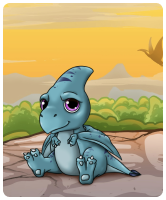
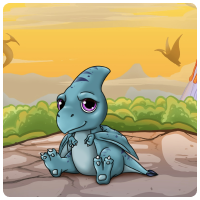
new baby dinos and fixes

diff --git a/src/components/GetToKnow/BabyDinos.js b/src/components/GetToKnow/BabyDinos.js
@@ -1,7 +1,16 @@
-import React from "react";
+import React, { useState, useRef } from "react";
 import { LazyLoadImage } from "react-lazy-load-image-component";
 import "react-lazy-load-image-component/src/effects/blur.css";
 export default function BabyDinos() {
+  const [setActive, setActiveState] = useState("");
+  const [setHeight, setHeightState] = useState("0px");
+
+  const content = useRef(null);
+
+  function toggleAccordion() {
+    setActiveState(setActive === "" ? "active" : "");
+    setHeightState(setActive === "active" ? "0px" : `${content.current.scrollHeight}px`);
+  }
   const dinos = [
     { src: "/imgs/nfts/baby/ankylosaurus.png", name: "ankylosaurus" },
     { src: "/imgs/nfts/baby/baryonyx.png", name: "baryonyx" },
@@ -15,25 +24,76 @@ export default function BabyDinos() {
     { src: "/imgs/nfts/baby/triceratops.png", name: "triceratops" },
     { src: "/imgs/nfts/baby/tyrannosaurus.png", name: "tyrannosaurus" },
     { src: "/imgs/nfts/baby/velociraptor.png", name: "velociraptor" },
+    { src: "/imgs/nfts/baby/achelosaurus.png", name: "achelosaurus" },
+    { src: "/imgs/nfts/baby/allosaurus.png", name: "allosaurus" },
+    { src: "/imgs/nfts/baby/dilophosaurus.png", name: "dilophosaurus" },
+    { src: "/imgs/nfts/baby/tsintaosaurus.png", name: "tsintaosaurus" },
+    { src: "/imgs/nfts/baby/iguanodon.png", name: "iguanodon" },
+    { src: "/imgs/nfts/baby/isanosaurus.png", name: "isanosaurus" },
+    { src: "/imgs/nfts/baby/silvisaurus.png", name: "silvisaurus" },
+    { src: "/imgs/nfts/baby/diplodocus.png", name: "diplodocus" },
   ];
   return (
-    <div className="min-h-[440px] grid grid-cols-2 lg:grid-cols-6 gap-y-8 gap-x-4">
-      {dinos.map((d) => (
-        <div className="flex flex-col items-center justify-center" key={d.name}>
-          <span className="text-white text-lg">{d.name}</span>
-          <div className="min-h-[200px]">
-            <LazyLoadImage className alt={d.name} effect="blur" src={d.src} />
-          </div>
+    <>
+      <div className="min-h-[440px] grid grid-cols-2 lg:grid-cols-5 gap-y-8 gap-x-4">
+        {dinos.map(
+          (d, i) =>
+            i < 10 && (
+              <div className="flex flex-col items-center justify-center" key={d.name}>
+                <span className="text-white text-lg">{d.name}</span>
+                <div className="min-h-[200px]">
+                  <LazyLoadImage className alt={d.name} effect="blur" src={d.src} />
+                </div>
 
-          <a
-            href="https://entrepot.app/marketplace/icdinos"
-            className="rounded-full text-white h-10 flex items-center gap-1 justify-center bg-orange w-full"
-          >
-            <span className="relative top-0.5">buy now</span>{" "}
-            <img className="" src="/imgs/entrepot-logo-small.png" alt="buy on entrepot" />
-          </a>
-        </div>
-      ))}
-    </div>
+                <a
+                  href="https://entrepot.app/marketplace/icdinos"
+                  className="rounded-full text-white h-10 flex items-center gap-1 justify-center bg-orange w-full"
+                >
+                  <span className="relative top-0.5">buy now</span>{" "}
+                  <img className="" src="/imgs/entrepot-logo-small.png" alt="buy on entrepot" />
+                </a>
+              </div>
+            )
+        )}
+      </div>
+      <div
+        ref={content}
+        style={{ maxHeight: `${setHeight}` }}
+        className="transition-all overflow-hidden  grid grid-cols-2 lg:grid-cols-5 gap-y-8 gap-x-4 mb-10"
+      >
+        {dinos.map(
+          (d, i) =>
+            i > 9 && (
+              <div className="flex flex-col items-center justify-center" key={d.name}>
+                <span className="text-white text-lg">{d.name}</span>
+                <div className="min-h-[200px]">
+                  <LazyLoadImage className alt={d.name} effect="blur" src={d.src} />
+                </div>
+
+                <a
+                  href="https://entrepot.app/marketplace/icdinos"
+                  className="rounded-full text-white h-10 flex items-center gap-1 justify-center bg-orange w-full"
+                >
+                  <span className="relative top-0.5">buy now</span>{" "}
+                  <img className="" src="/imgs/entrepot-logo-small.png" alt="buy on entrepot" />
+                </a>
+              </div>
+            )
+        )}
+      </div>
+      <div className="w-full flex justify-center">
+        {" "}
+        <button
+          className="bg-black w-max text-white leading-none py-4 px-6 rounded-full cursor-pointer mt-2 hover:bg-orange transition-all duration-500 mx-auto"
+          onClick={toggleAccordion}
+        >
+          {" "}
+          <span className="top-1 relative">
+            {" "}
+            {setActive === "active" ? "show less" : "show more"}
+          </span>
+        </button>
+      </div>
+    </>
   );
 }

diff --git a/src/components/GetToKnow/Legendaries.js b/src/components/GetToKnow/Legendaries.js
@@ -15,7 +15,7 @@ export default function Legendaries() {
     <RarityBox rarityType={"legendaries"}>
       <div className="flex flex-col justify-center items-center lg:items-start ">
         <p>
-          <span>Ultra rares</span>
+          <span>legendaries</span>
         </p>
       </div>
       <div className="flex flex-col rarity-pics-container">
